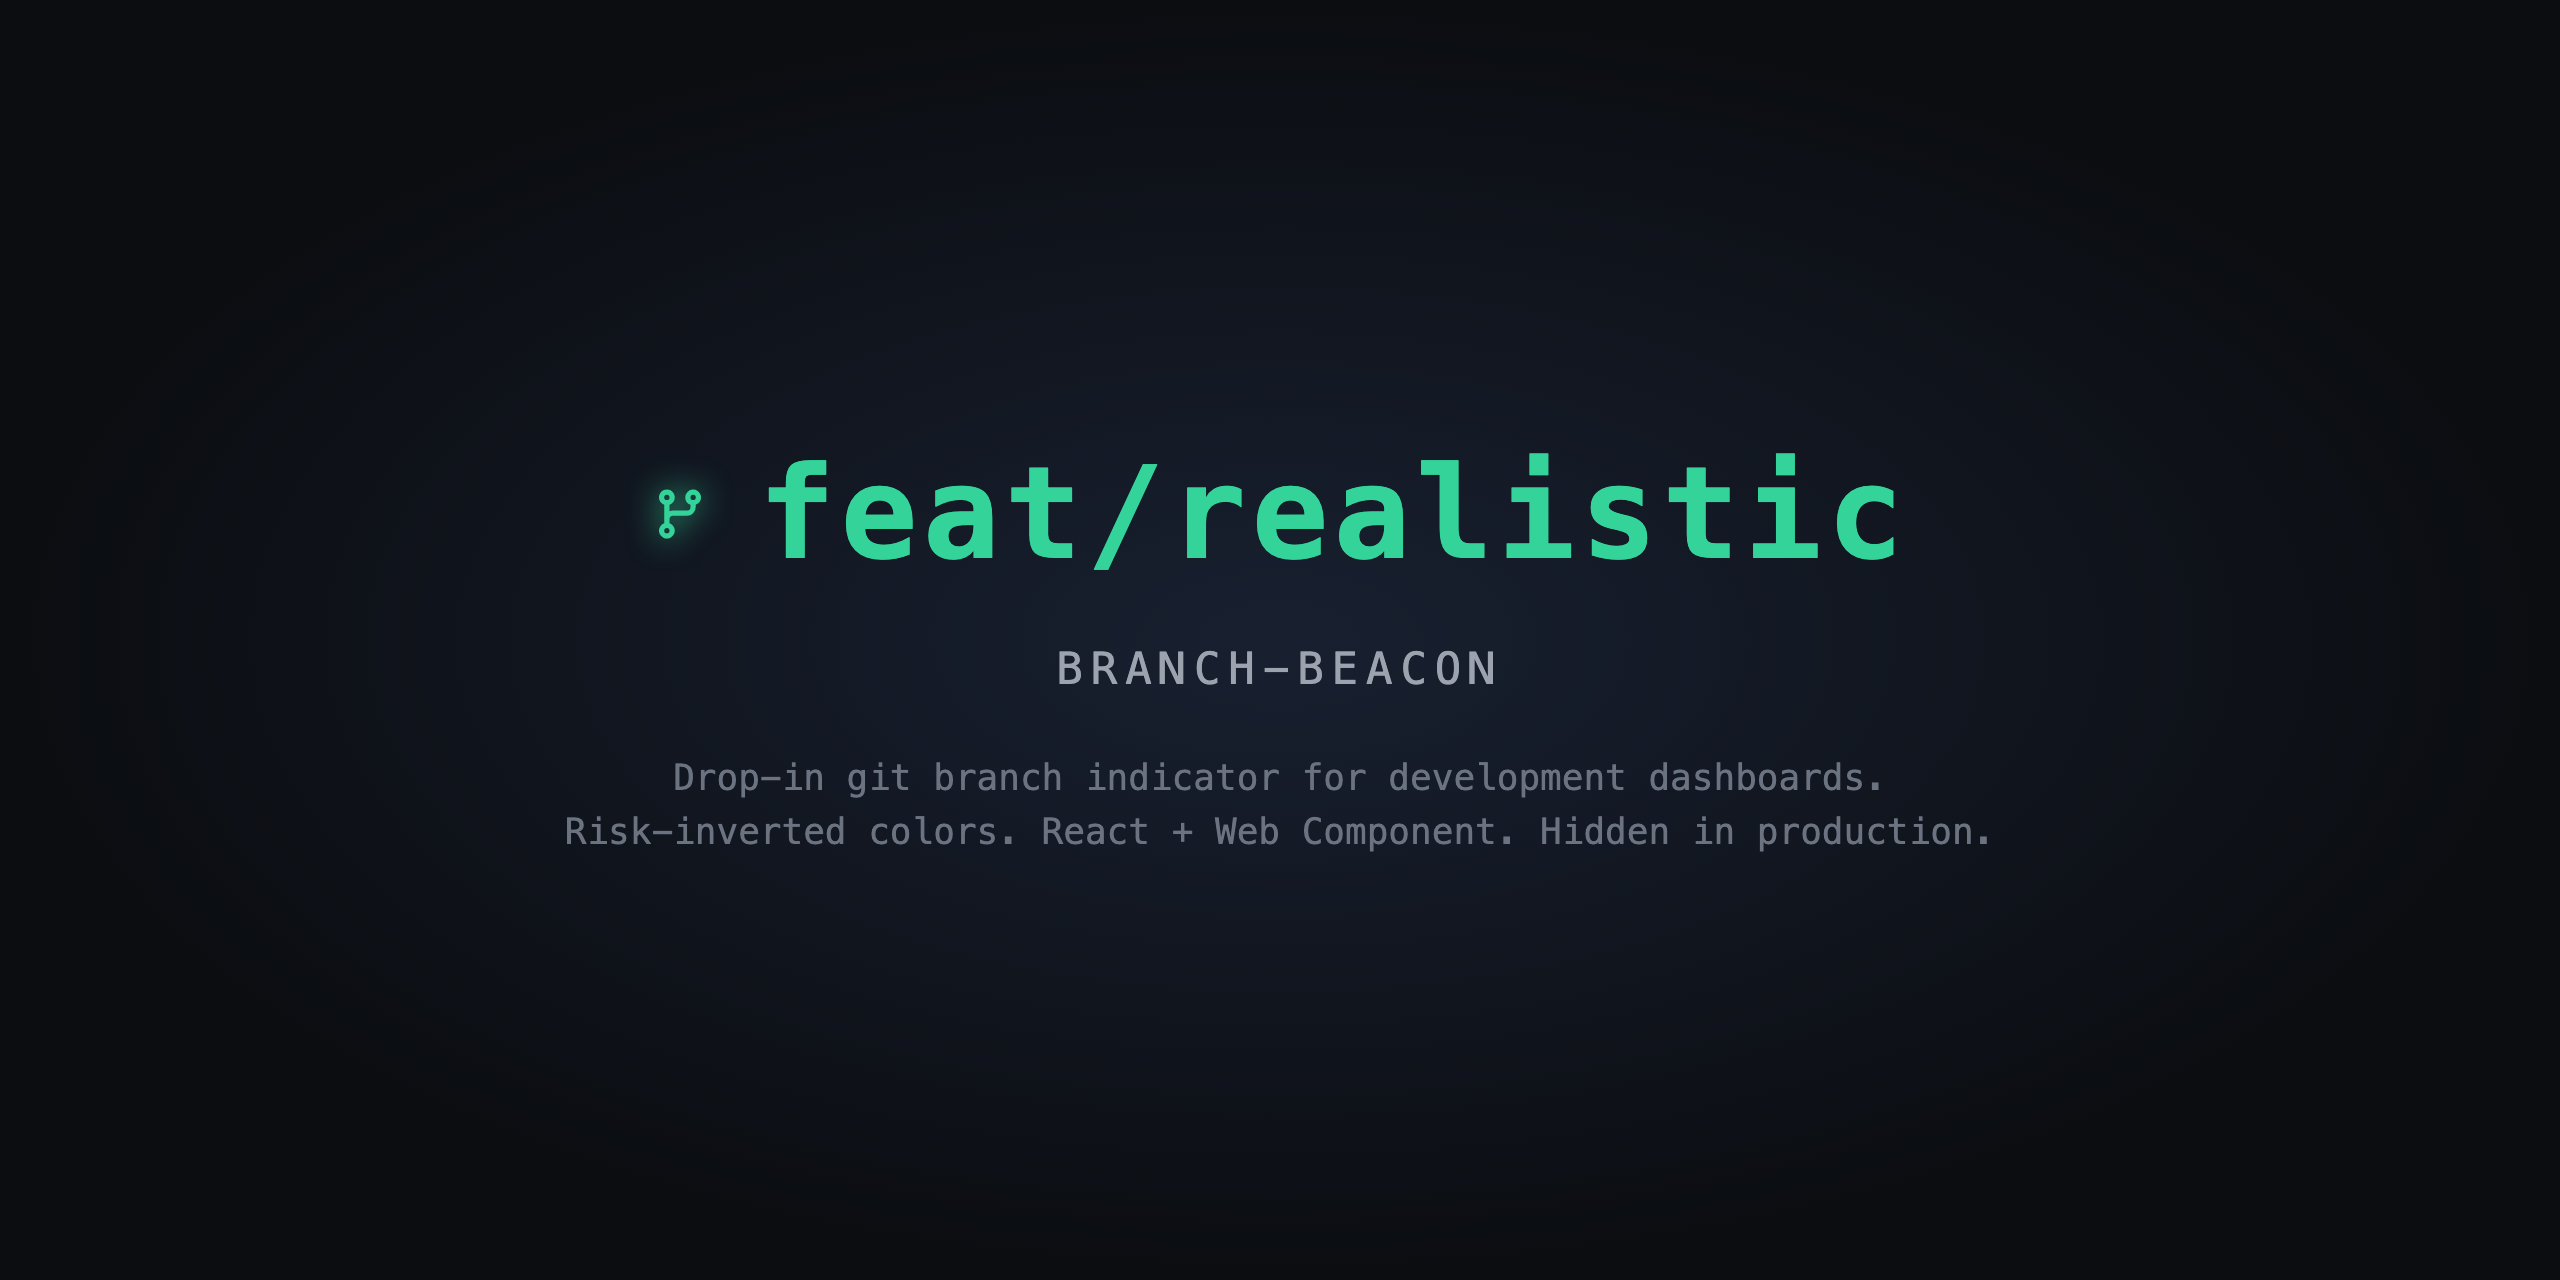
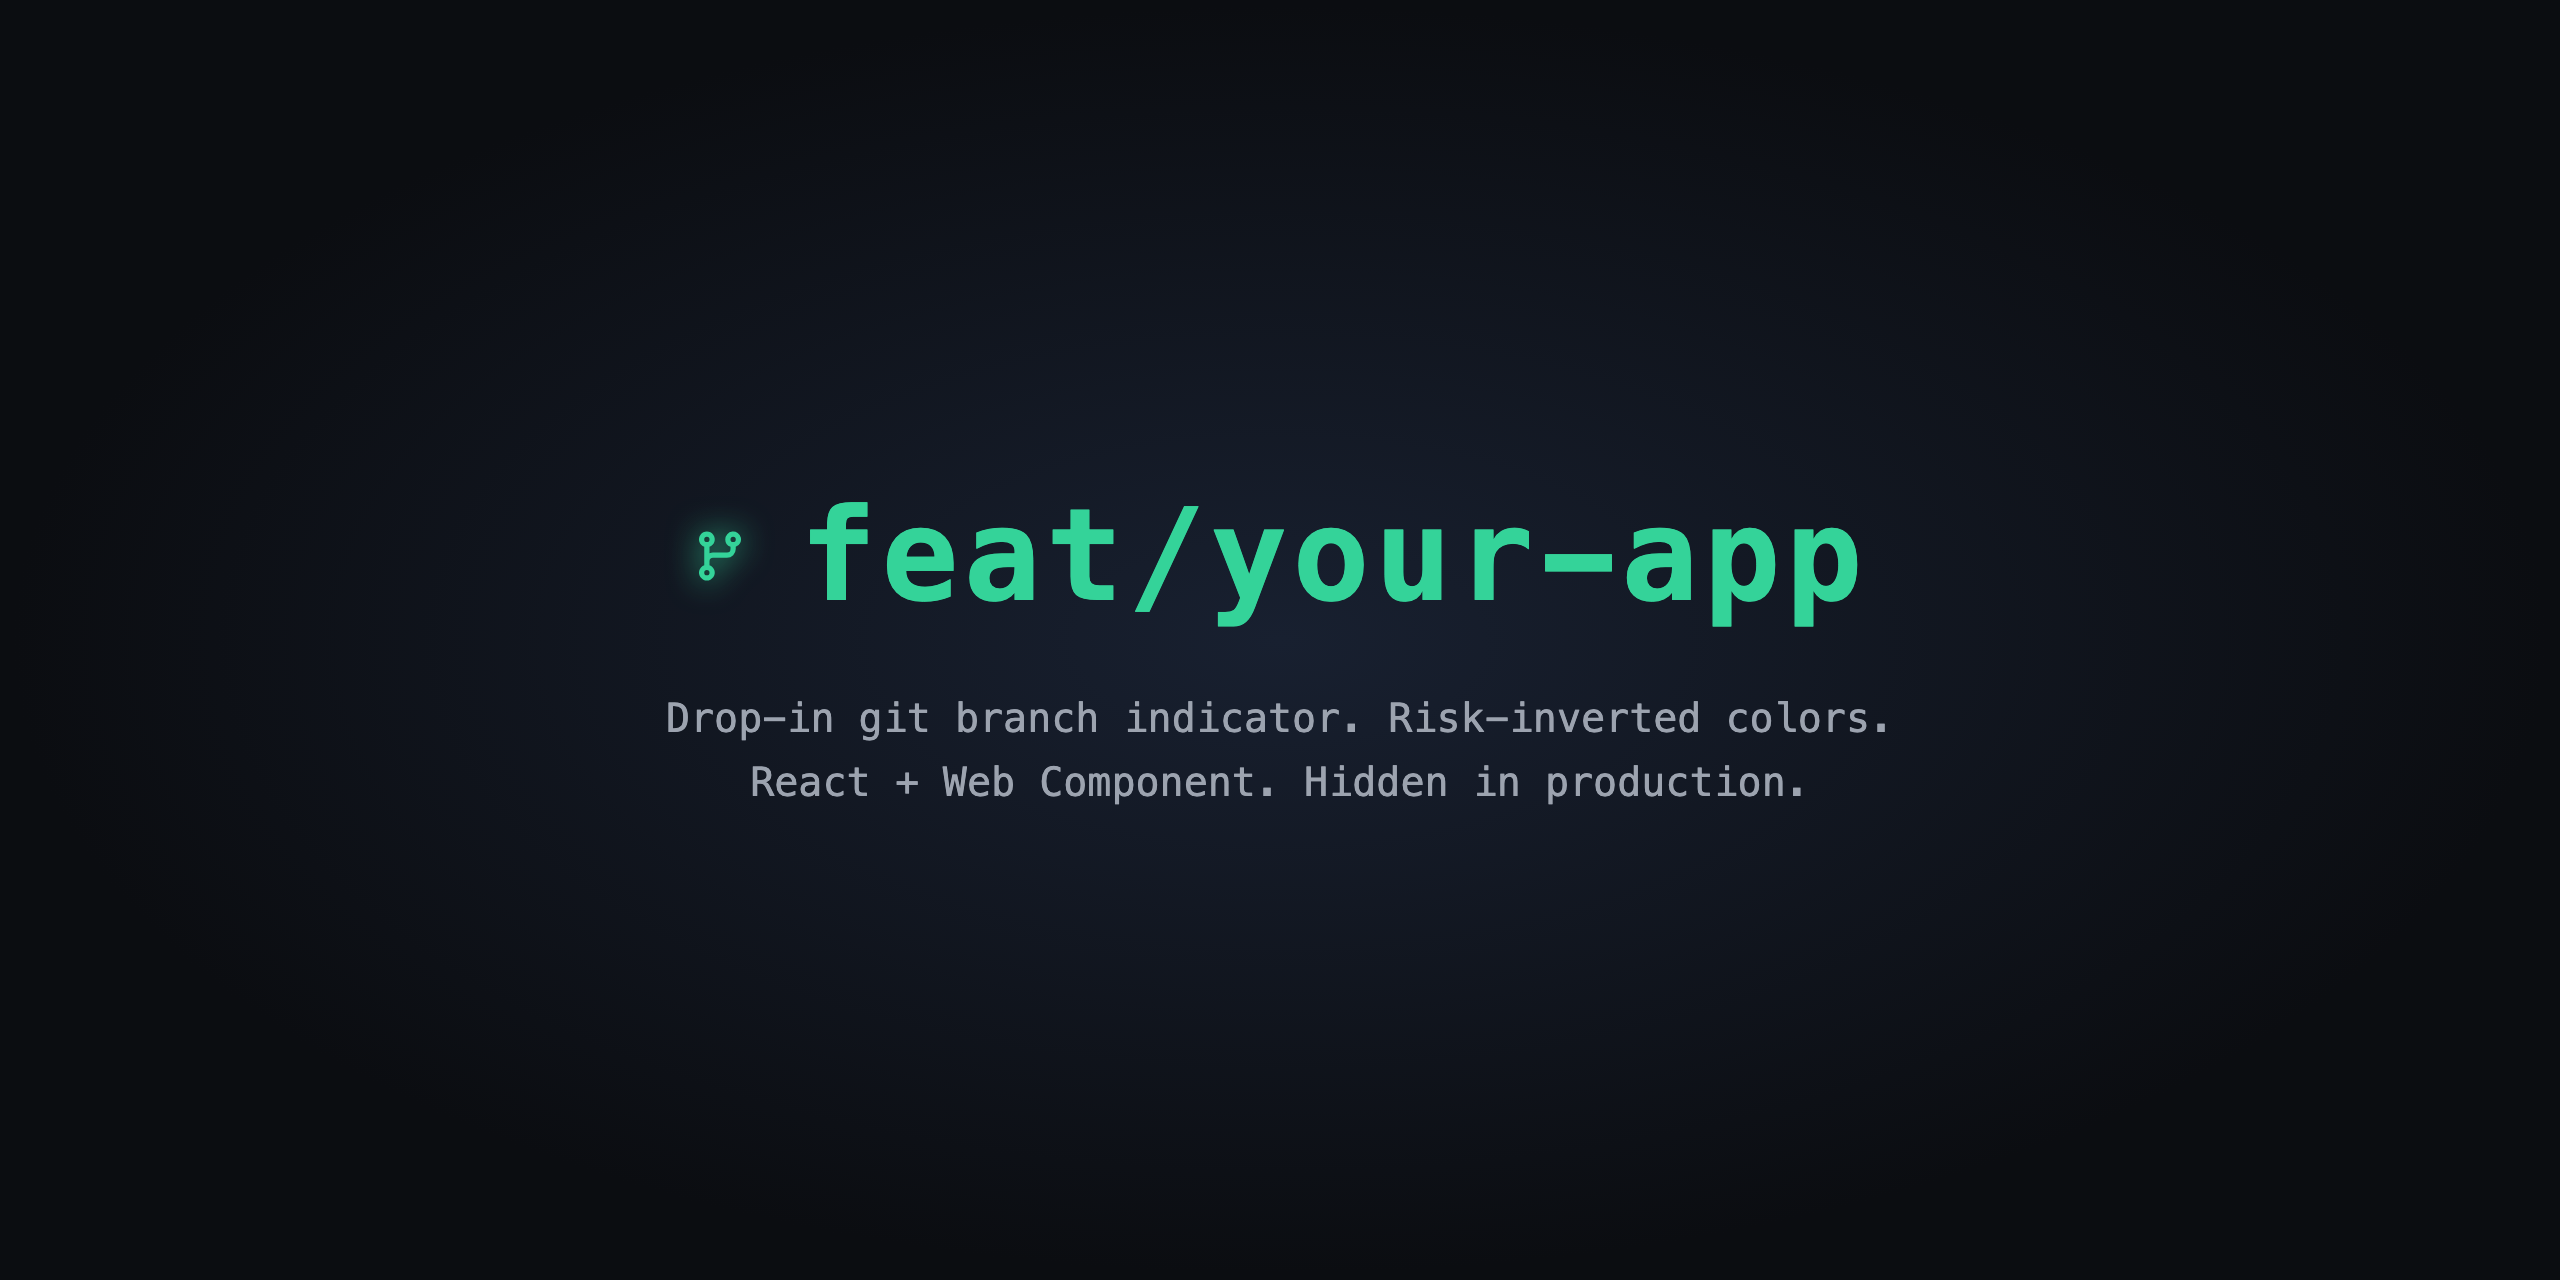
docs: refine social-preview composition
- Branch text changed from feat/realistic → feat/your-app. Reads as an
  invitation to imagine the viewer's own project, not a self-description.
- Drop the redundant "BRANCH-BEACON" wordmark subtitle. With the
  indicator + tagline, the project's name was being said three times in
  a 1280×640 frame; cutting one says it twice and breathes better.
- Tagline restructured into two clean lines with a wider max-width to
  avoid awkward "Hidden in production." dangling on its own line.

Changed region(s): [[0.2188, 0.3438, 0.7812, 0.6562]]

diff --git a/apps/storybook/stories/07-SocialPreview.stories.tsx b/apps/storybook/stories/07-SocialPreview.stories.tsx
@@ -13,7 +13,7 @@ const meta = {
   argTypes: sharedArgTypes,
   args: { shape: "svg", markerSize: 28, glow: true },
   parameters: {
-    msw: { handlers: [mockBranch("feat/realistic")] },
+    msw: { handlers: [mockBranch("feat/your-app")] },
     layout: "fullscreen",
   },
 } satisfies Meta<typeof BranchIndicator>;
@@ -55,26 +55,16 @@ export const SocialCard: Story = {
       </div>
       <div
         style={{
-          fontSize: 22,
-          letterSpacing: "0.18em",
-          textTransform: "uppercase",
+          fontSize: 20,
           color: "#9ca3af",
-        }}
-      >
-        branch-beacon
-      </div>
-      <div
-        style={{
-          fontSize: 18,
-          color: "#6b7280",
-          maxWidth: 720,
+          maxWidth: 900,
           textAlign: "center",
-          lineHeight: 1.5,
+          lineHeight: 1.6,
         }}
       >
-        Drop-in git branch indicator for development dashboards.
+        Drop-in git branch indicator. Risk-inverted colors.
         <br />
-        Risk-inverted colors. React + Web Component. Hidden in production.
+        React + Web Component. Hidden in production.
       </div>
     </div>
   ),